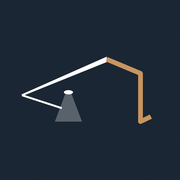
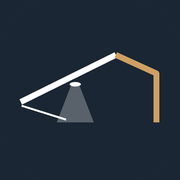
Логотип: новый знак и золотые акценты, иконки и og.jpg под него

Changed region(s): [[0.1111, 0.3333, 0.5556, 0.6944], [0.5556, 0.2778, 0.8889, 0.6944]]

diff --git a/scripts/og-image.py b/scripts/og-image.py
@@ -17,7 +17,7 @@ PHONE = '+7 928 598-34-32'
 BRAND = 'SANTLADA'
 
 NIGHT = (26, 38, 51)  # --color-night
-GOLD = (200, 149, 95)  # золотой край в логотипе
+GOLD = (207, 160, 98)  # золотой край в логотипе
 WHITE = (255, 255, 255)
 
 W, H = 1200, 630
@@ -41,28 +41,29 @@ def text(d: ImageDraw.ImageDraw, xy, s: str, family: str, size: int, weight: int
 
 
 def logo(size: int, bg=NIGHT, fg=WHITE) -> Image.Image:
-    """Знак как в Logo.astro (координаты в поле 64×34); bg=None — без подложки."""
+    """Знак как в Logo.astro (координаты в поле 80×48; в иконках линии чуть толще); bg=None — без подложки."""
     k = 8  # рисуем крупнее и уменьшаем — так края гладкие
     s = size * k
     im = Image.new('RGBA', (s, s), (0, 0, 0, 0))
     d = ImageDraw.Draw(im)
     if bg is not None:
         d.rounded_rectangle([0, 0, s - 1, s - 1], radius=round(s * 9 / 32), fill=bg)
-    f = s * 0.8 / 64
-    x0, y0 = s * 0.08, (s - 34 * f) / 2
+    f = s * 0.82 / 80
+    x0, y0 = s * 0.09, (s - 48 * f) / 2 - 1.5 * f
+    thick = 4.0 if size <= 64 and bg is not None else 3.2
 
     def pt(x, y):
         return (x0 + x * f, y0 + y * f)
 
     beam = Image.new('RGBA', (s, s), (0, 0, 0, 0))
-    ImageDraw.Draw(beam).polygon([pt(22.7, 18.6), pt(25.3, 18.6), pt(30, 31), pt(18, 31)], fill=(*fg, 70))
+    ImageDraw.Draw(beam).polygon([pt(29.6, 23.4), pt(34.4, 23.4), pt(42, 43), pt(22, 43)], fill=(*fg, 70))
     im = Image.alpha_composite(im, beam)
     d = ImageDraw.Draw(im)
-    d.polygon([pt(3, 19), pt(41, 2.2), pt(41, 4.6), pt(3.9, 19.5)], fill=fg)
-    d.line([pt(3.4, 19.3), pt(21, 25)], fill=fg, width=max(1, round(0.9 * f)))
-    d.line([pt(41, 3.3), pt(56, 9.6), pt(56, 31), pt(60.6, 28.8)], fill=GOLD, width=round(2.1 * f), joint='curve')
-    cx, cy = pt(24, 18)
-    d.ellipse([cx - 2 * f, cy - 0.9 * f, cx + 2 * f, cy + 0.9 * f], fill=fg)
+    d.line([pt(2.5, 32), pt(54, 6.5)], fill=fg, width=round(thick * f))
+    d.line([pt(3, 34), pt(27, 41.5)], fill=fg, width=max(1, round(1.1 * f)))
+    d.line([pt(54, 6.5), pt(76, 16.5), pt(76, 43)], fill=GOLD, width=round(thick * f), joint='curve')
+    cx, cy = pt(32, 22.4)
+    d.ellipse([cx - 3 * f, cy - 1.2 * f, cx + 3 * f, cy + 1.2 * f], fill=fg)
     return im.resize((size, size), Image.LANCZOS)
 
 
@@ -110,12 +111,12 @@ with open('public/favicon.svg', 'w', encoding='utf-8', newline='\n') as f:
     f.write(
         '<svg xmlns="http://www.w3.org/2000/svg" viewBox="0 0 32 32">\n'
         '  <rect width="32" height="32" rx="9" fill="#1a2633"/>\n'
-        '  <g transform="translate(2.6 9.2) scale(0.42)">\n'
-        '    <path d="M22.7 18.6h2.6L30 31H18Z" fill="#fff" fill-opacity="0.28"/>\n'
-        '    <path d="M3 19 41 2.2v2.4L3.9 19.5Z" fill="#fff"/>\n'
-        '    <path d="M3.4 19.3 21 25" stroke="#fff" stroke-width="1.2" stroke-linecap="round"/>\n'
-        '    <path d="M41 3.3 56 9.6V31l4.6-2.2" fill="none" stroke="#c8955f" stroke-width="2.6"/>\n'
-        '    <ellipse cx="24" cy="18" rx="2" ry="0.9" fill="#fff"/>\n'
+        '  <g transform="translate(2.9 6.4) scale(0.41)">\n'
+        '    <path d="M29.6 23.4h4.8L42 43H22Z" fill="#fff" fill-opacity="0.28"/>\n'
+        '    <path d="M2.5 32 54 6.5" fill="none" stroke="#fff" stroke-width="4"/>\n'
+        '    <path d="M3 34 27 41.5" stroke="#fff" stroke-width="1.6" stroke-linecap="round"/>\n'
+        '    <path d="M54 6.5 76 16.5V43" fill="none" stroke="#cfa062" stroke-width="4"/>\n'
+        '    <ellipse cx="32" cy="22.4" rx="3" ry="1.2" fill="#fff"/>\n'
         '  </g>\n'
         '</svg>\n'
     )
